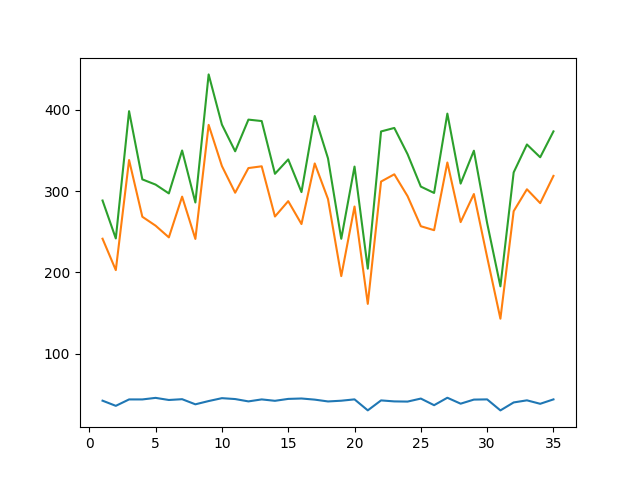
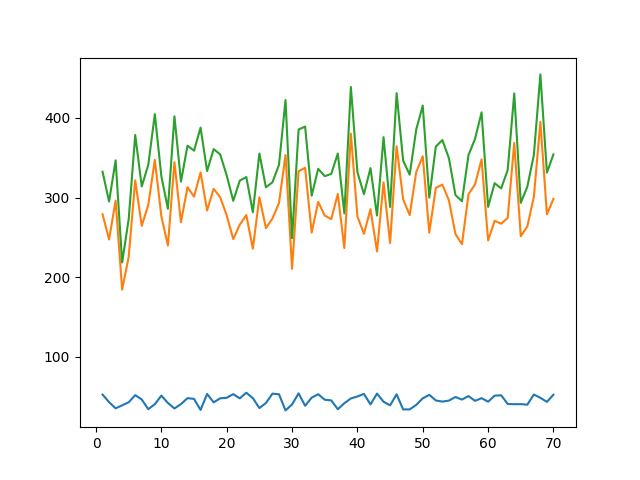
fix bug in scheduling algo, use 1 core for scheduling, modify env.py

diff --git a/scheduler/cfs.py b/scheduler/cfs.py
@@ -1,34 +1,10 @@
 import numpy as np
 from sortedcontainers import SortedKeyList
 from task import Task, Normal, Realtime
+from scheduler.scheduler import Scheduler
 
-MIGRATION_COST = 0.5
-NR_MIGRATE = 32
-
-class Scheduler:
-    def __init__(self) -> None:
-        self.all_tasks_done = []
-        self.FEEDBACK_PERIOD = 100     # microsecond
-        self.nth_feedback = 1
-        self.tasks_to_feedback = []
-
-    def calc_avg(self, task_list):
-        avg_response_time = np.average([task.response_time for task in task_list])
-        avg_waiting_time = np.average([task.waiting_time for task in task_list])
-        avg_turnaround_time = np.average([task.turnaround_time for task in task_list])
-        task_list.clear()
-        return np.array([avg_response_time, avg_waiting_time, avg_turnaround_time])
-    
-    def print_avg(self, task_list):
-        nr_tasks = len(task_list)
-        avg_response_time, avg_waiting_time, avg_turnaround_time = self.calc_avg(task_list)
-        print("CALCULATE AVERAGE")
-        print("==========================================")
-        print(f"- Number of tasks: {nr_tasks}")
-        print(f"- Average response time: {avg_response_time}")
-        print(f"- Average waiting time: {avg_waiting_time}")
-        print(f"- Average turnaround time: {avg_turnaround_time}")
-        print("\n")
+# MIGRATION_COST = 0.5
+# NR_MIGRATE = 32
 
 class CFSScheduler (Scheduler):
     def __init__(self, task_list) -> None:
@@ -72,7 +48,7 @@ class CFSScheduler (Scheduler):
             self.load_weight -= task.weight
             self.all_tasks_done.append(task)
             self.tasks_to_feedback.append(task)
-            # self.print_proc_in_queue()
+            self.print_proc_in_queue()
 
     def print_proc_in_queue (self):
         print (f"TIMER: {self.timer} -- CURRENT PROCESSES IN READY QUEUE (VRUNTIME ASCENDED)")
@@ -85,23 +61,28 @@ class CFSScheduler (Scheduler):
     def reconfig_param (self, param_config):
         self.SCHED_LATENCY, self.MIN_GRANULARITY, self.VRUNTIME_RATE = param_config
 
+    def check_tasklist(self) -> bool:
+        next_arrived_task = self.task_list[0]
+        if (next_arrived_task.arrival_time <= self.timer):
+            self.task_list.pop(0)
+            self.tasks_sorted.add(next_arrived_task)
+            next_arrived_task.waiting_time = self.timer - next_arrived_task.arrival_time
+            next_arrived_task.turnaround_time = self.timer - next_arrived_task.arrival_time
+            next_arrived_task.response_time = self.timer - next_arrived_task.arrival_time
+            next_arrived_task.vruntime = self.min_vruntime
+            self.nr_running += 1
+            self.load_weight += next_arrived_task.weight
+            self.update_load_weight(next_arrived_task.weight)
+            self.print_proc_in_queue()
+            return True
+        return False
 
     # schedule until there're no tasks left -> used for testing
     def cfs_schedule (self):   # task_list is sorted based on arrival time
         while (len(self.task_list) > 0 or len(self.tasks_sorted) > 0):
-            if (len(self.task_list) > 0):
-                next_arrived_task = self.task_list[0]
-                if (next_arrived_task.arrival_time <= self.timer):
-                    self.task_list.pop(0)
-                    self.tasks_sorted.add(next_arrived_task)
-                    next_arrived_task.waiting_time = self.timer - next_arrived_task.arrival_time
-                    next_arrived_task.turnaround_time = self.timer - next_arrived_task.arrival_time
-                    next_arrived_task.response_time = self.timer - next_arrived_task.arrival_time
-                    next_arrived_task.vruntime = self.min_vruntime
-                    self.nr_running += 1
-                    self.load_weight += next_arrived_task.weight
-                    self.update_load_weight(next_arrived_task.weight)
-                    # self.print_proc_in_queue()
+            if (len(self.task_list) > 0): new_task_arrived = self.check_tasklist ()
+            while (len(self.task_list) > 0 and new_task_arrived == True):
+                new_task_arrived = self.check_tasklist ()
 
             next_exec_task = self.tasks_sorted[0]
             self.execute_norm_task (next_exec_task)

diff --git a/task.py b/task.py
@@ -1,3 +1,5 @@
+from enum import Enum
+
 nice_table = {
     -20: 88761, -19: 71755, -18: 56483, -17: 46273, -16: 36291,
     -15: 29154, -14: 23254, -13: 18705, -12: 14949, -11: 11916,
@@ -8,14 +10,17 @@ nice_table = {
     10: 110, 11: 87, 12: 70, 13: 56, 14: 45,
     15: 36, 16: 29, 17: 23, 18: 18, 19: 15}
 
+Policy = Enum('Policy', ["SCHED_FIFO", "SCHED_RR", "SCHED_NORMAL"])
+
 class Task:
-    def __init__(self, pid, type, arrival_time, burst_time) -> None:
+    def __init__(self, pid, sched_policy, arrival_time, burst_time) -> None:
         # info the scheduler shouldn't know
         self.burst_time = burst_time
 
         # infor the scheduler should know
         self.pid = pid
-        self.type = type
+        self.sched_policy = Enum('Policy', ['SCHED_RR', 'SCHED_FIFO', 'SCHED_NORMAL'])
+        self.sched_policy = sched_policy
         self.arrival_time = arrival_time
 
         self.exec_time = 0
@@ -25,26 +30,32 @@ class Task:
 
 
 class Realtime (Task): 
-    def __init__(self, priority) -> None:
-        super().__init__("realtime")
+    def __init__(self, pid, sched_policy, priority, arrivial_time, burst_time) -> None:
+        super().__init__(pid, sched_policy, arrivial_time, burst_time)
         self.priority = priority
+        self.sched_policy = sched_policy
 
+    # real-time task doesn't have virtual runtime
+    def update_if_executed(self, exec_time):
+        self.exec_time += exec_time
+        self.burst_time -= exec_time
+        self.turnaround_time += exec_time
+
+    def update_if_in_queue(self, exec_time):
+        self.waiting_time += exec_time
+        self.turnaround_time += exec_time
 
 class Normal (Task):
     def __init__(self, pid, nice, arrival_time, burst_time) -> None:
-        super().__init__(pid, "normal", arrival_time, burst_time)
-        # timing unit is micro-second
-        # self.SCHED_LATENCY = 24
-        # self.MIN_GRANULARITY = 3
-        # self.nr_latency = int(self.SCHED_LATENCY / self.MIN_GRANULARITY)
+        super().__init__(pid, Policy.SCHED_NORMAL, arrival_time, burst_time)
         self.nice = nice
         # print(f"nice = {nice}")
         self.weight = nice_table [self.nice]
         self.vruntime = 0
     
     def update_period (self, nr_running, sched_latency, min_granularity):     # the calculation's already considered priority
-        if ((sched_latency / nr_running) < min_granularity) : self.period = min_granularity
-        else: self.period = sched_latency / nr_running
+        self.period = sched_latency / nr_running
+        if (self.period < min_granularity) : self.period = min_granularity
         # self.period = self.period * self.weight / load_weight     # period for each thread also depends on priority
     
     def update_vruntime (self, vruntime_rate):

diff --git a/env.py b/env.py
@@ -3,7 +3,7 @@ import numpy as np
 import seaborn as sns
 from matplotlib import pyplot as plt
 import pandas as pd
-import cfs
+import scheduler.cfs as cfs
 import data_generator
 from sortedcontainers import SortedKeyList
 from copy import deepcopy
@@ -12,13 +12,13 @@ class OSEnv (gym.Env) :
     def __init__(self, env_config) -> None:     # data_config is a dictionary
         # data_config (work load) is fixed when training
         super().__init__()
-        self.STATE_SPACE_DIM = 10
         self.ACTION_MEAN = [24, 3, 1]      # latency, min_granularity, vruntime_rate
         self.ACTION_STD = [5, 1, 1]
         self.action_space = gym.spaces.Box(low = -1, high=1, dtype=np.float32, shape=(3,))
+        self.STATE_SPACE_DIM = 10
         self.OBSERVATION_MIN = np.zeros((self.STATE_SPACE_DIM, 5))    # nice, exec time, response time, waiting time, vruntime
         self.OBSERVATION_MIN[:,0] = -20
-        self.OBSERVATION_MAX = np.multiply(np.ones((self.STATE_SPACE_DIM, 5)),np.array([19, 2000, 1000, 1000, 10000]))
+        self.OBSERVATION_MAX = np.multiply(np.ones((self.STATE_SPACE_DIM, 5)),np.array([19, 2000, 1000, 1000, 15000]))
         self.observation_space = gym.spaces.Box(low = -1, high = 1, shape= (self.STATE_SPACE_DIM, 5))
         self.RES_MAX = [1000, 2000, 2000]    # avg response time, avg waiting time, avg turnaround time
         self.n_episode = 1
@@ -30,7 +30,7 @@ class OSEnv (gym.Env) :
 
     def calc_reward (self, new_res) -> float:
         if (len(new_res) == 0 or len(self.old_res) == 0): return 0    # happen when there're no tasks done in a time period
-        improve_rate = np.average(new_res, weights=[1,1,1]) / np.average(self.old_res, weights= [1,1,1])
+        improve_rate = np.average(new_res, weights=[6,1,1]) / np.average(self.old_res, weights= [6,1,1])
         if (improve_rate < 0.96): reward = 1
         elif (improve_rate > 1.5): reward = -1
         else: reward = 0

diff --git a/scheduler/scheduler.py b/scheduler/scheduler.py
@@ -1,0 +1,27 @@
+import numpy as np
+
+
+class Scheduler:
+    def __init__(self) -> None:
+        self.all_tasks_done = []
+        self.FEEDBACK_PERIOD = 300    # microsecond
+        self.nth_feedback = 1
+        self.tasks_to_feedback = []
+
+    def calc_avg(self, task_list):
+        avg_response_time = np.average([task.response_time for task in task_list])
+        avg_waiting_time = np.average([task.waiting_time for task in task_list])
+        avg_turnaround_time = np.average([task.turnaround_time for task in task_list])
+        task_list.clear()
+        return np.array([avg_response_time, avg_waiting_time, avg_turnaround_time])
+    
+    def print_avg(self, task_list):
+        nr_tasks = len(task_list)
+        avg_response_time, avg_waiting_time, avg_turnaround_time = self.calc_avg(task_list)
+        print("CALCULATE AVERAGE")
+        print("==========================================")
+        print(f"- Number of tasks: {nr_tasks}")
+        print(f"- Average response time: {avg_response_time}")
+        print(f"- Average waiting time: {avg_waiting_time}")
+        print(f"- Average turnaround time: {avg_turnaround_time}")
+        print("\n")

diff --git a/main.py b/main.py
@@ -6,7 +6,7 @@ Works to do:
     - Implement a clock to give back control to OS when timeslice exceeded?
 '''
 
-import data_generator, cfs
+import data_generator, scheduler.cfs as cfs
 from ray import tune
 from ray.tune.logger import pretty_print
 from ray.rllib.algorithms import PPOConfig
@@ -73,7 +73,7 @@ class Test:
         
 
 # params
-N_ITERATIONS = 100
+N_ITERATIONS = 10
 NR_TASK = 10
 NICE_MU = 0
 NICE_SIGMA = 10
@@ -81,11 +81,11 @@ NICE_SIGMA = 10
 # self.ARRIVAL_SIGMA = 0.5*SEC_TO_MS
 # self.BURST_MU = 4*SEC_TO_MS
 # self.BURST_SIGMA = 2*SEC_TO_MS
-ARRIVAL_MU = 5    # microsecond
-ARRIVAL_SIGMA = 2
-BURST_MU = 50
+ARRIVAL_MU = 50    # microsecond
+ARRIVAL_SIGMA = 20
+BURST_MU = 60
 BURST_SIGMA = 20
 
 test = Test(N_ITERATIONS, NR_TASK, NICE_MU, NICE_SIGMA, ARRIVAL_MU, ARRIVAL_SIGMA, BURST_MU, BURST_SIGMA)
-test.test_cfs_scheduling()
-# test.test_baseline(30, True)
+# test.test_cfs_scheduling()
+test.test_baseline(1, True)

diff --git a/data_generator.py b/data_generator.py
@@ -23,7 +23,7 @@ class TaskListGenerator:
             burst_time = max (np.random.normal(self.BURST_MU, self.BURST_SIGMA), 0)
             new_task = task.Normal (i, nice, arrival_time, burst_time)
             self.task_list.append(new_task)
-        # self.write_task_lists()
+        self.write_task_lists()
 
     def generate_realtime_tasks (self):
         pass

diff --git a/scheduler/realtime_scheduling.py b/scheduler/realtime_scheduling.py
@@ -1,0 +1,13 @@
+from scheduler.scheduler import Scheduler
+
+'''
+Real-time Scheduling
+    - Priority from 0-99
+    - Two types of policies: SCHED_FIFO and SCHED_RR (RR just like FIFO but using RR for tasks with the same priority)
+    - 
+'''
+
+class RealtimeScheduler (Scheduler):
+    def __init__(self, task_list) -> None:
+        super().__init__()
+        

diff --git a/test.py b/test.py
@@ -44,3 +44,10 @@ print(list1)
 
 mat = np.array([[1,2], [3,4]])
 print(mat - np.array([1,1]))
+
+from enum import Enum
+
+Color = Enum('Colorr', ['RED', 'GREEN', 'BLUE'])
+color = Color.RED
+if (color == Color.RED):
+    print(color)
